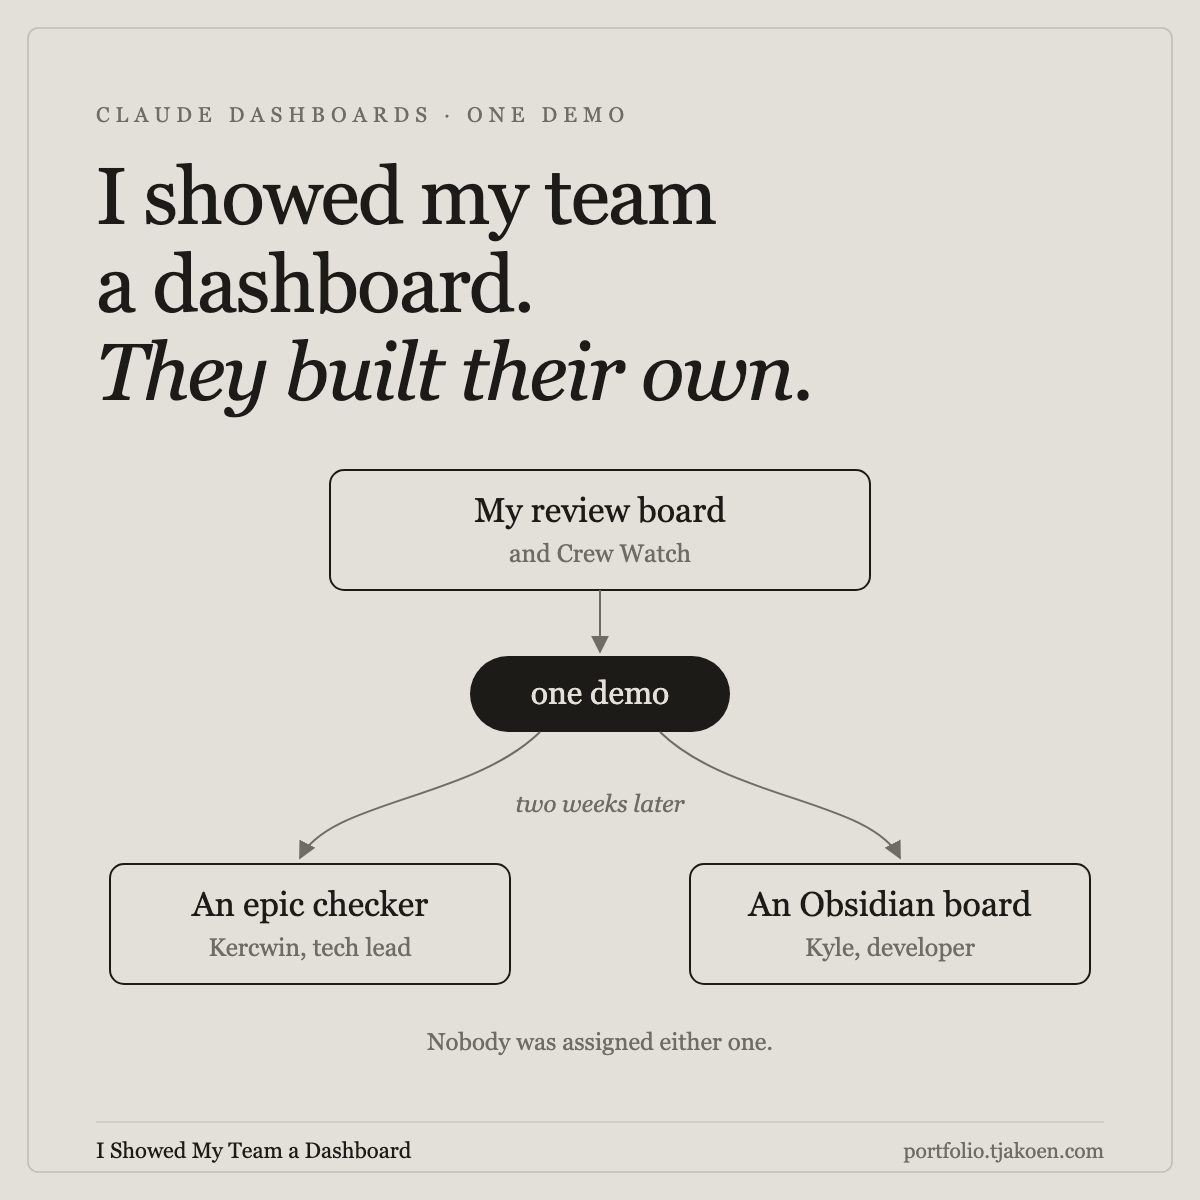
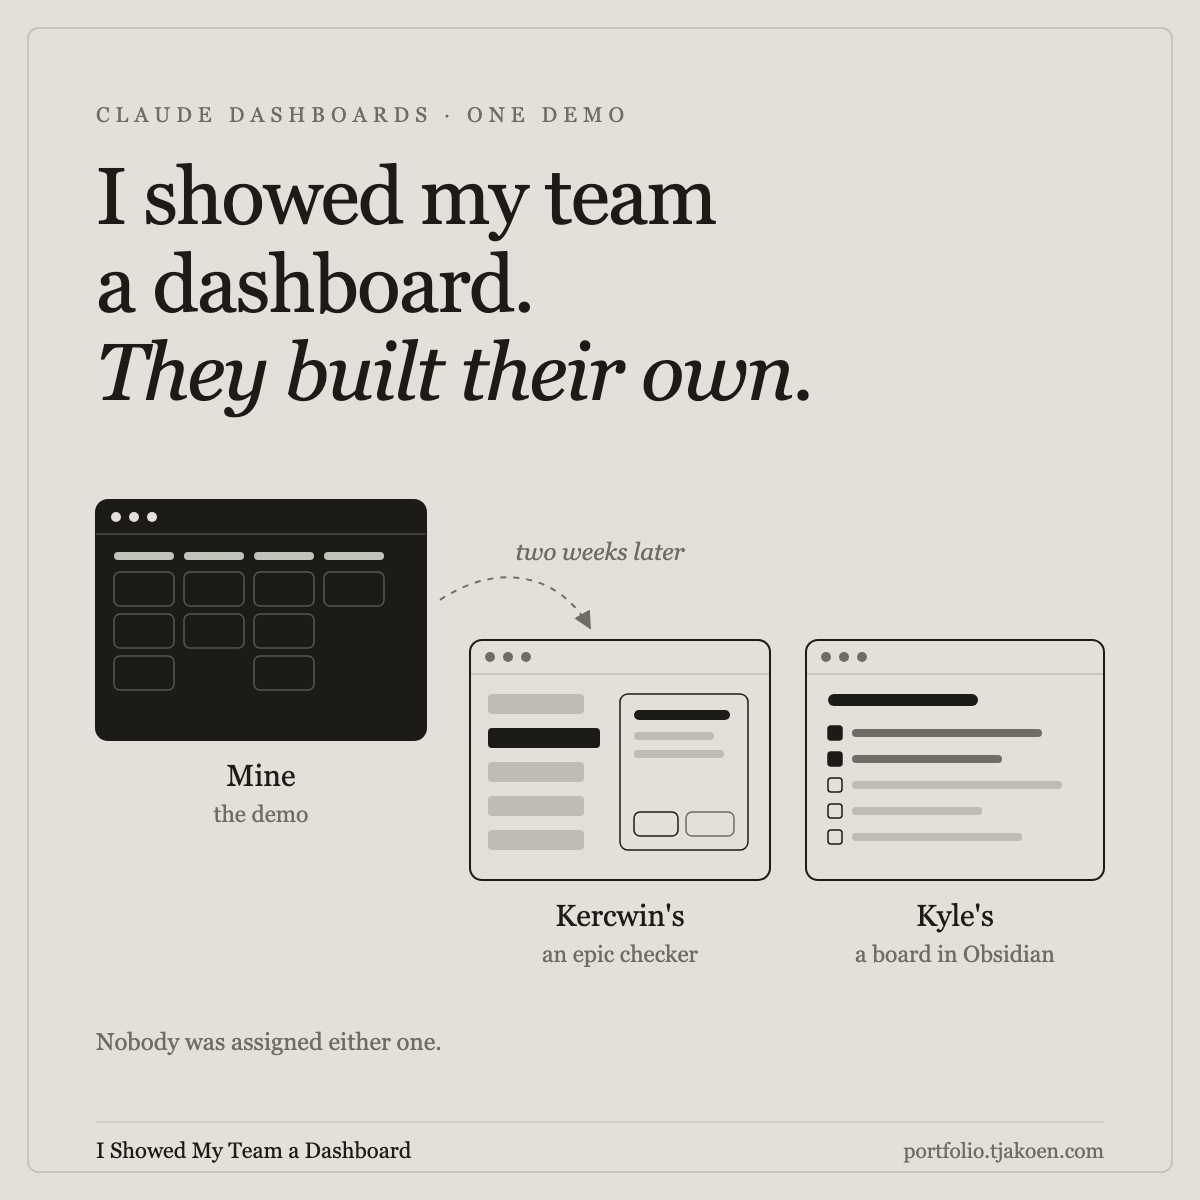
Redraw the dashboards social card as three small windows instead of a flow diagram

Changed region(s): [[0.0617, 0.4008, 0.925, 0.8017], [0.0925, 0.8633, 0.6475, 0.8942], [0.1542, 0.74, 0.37, 0.8017]]

diff --git a/tools/social-card-dashboards.ts b/tools/social-card-dashboards.ts
@@ -21,10 +21,61 @@ const INK = "#1C1B17";
 const MUTED = "#6E6C64";
 const LINE = "rgba(28,27,23,.18)";
 
-const box = (x: number, y: number, w: number, h: number, title: string, sub: string) => `
-    <rect x="${x}" y="${y}" width="${w}" height="${h}" rx="14" style="fill:${PAPER};stroke:${INK};stroke-width:2"/>
-    <text x="${x + w / 2}" y="${y + 52}" text-anchor="middle" style="fill:${INK};font-size:34px">${title}</text>
-    <text x="${x + w / 2}" y="${y + 92}" text-anchor="middle" style="fill:${MUTED};font-size:25px">${sub}</text>`;
+// One abstract dashboard window: a title bar with three dots, then a body drawn by the caller.
+const win = (x: number, y: number, w: number, h: number, dark: boolean, body: string) => {
+  const fill = dark ? INK : PAPER;
+  const stroke = INK;
+  const dot = dark ? PAPER : MUTED;
+  return `
+    <rect x="${x}" y="${y}" width="${w}" height="${h}" rx="12" style="fill:${fill};stroke:${stroke};stroke-width:2"/>
+    <line x1="${x}" y1="${y + 34}" x2="${x + w}" y2="${y + 34}" style="stroke:${dark ? "rgba(226,224,216,.25)" : LINE};stroke-width:1.5"/>
+    <circle cx="${x + 20}" cy="${y + 17}" r="5" style="fill:${dot}"/>
+    <circle cx="${x + 38}" cy="${y + 17}" r="5" style="fill:${dot}"/>
+    <circle cx="${x + 56}" cy="${y + 17}" r="5" style="fill:${dot}"/>
+    ${body}`;
+};
+
+// Mine: a board of columns with cards, in light ink on the dark window.
+const boardBody = (x: number, y: number) => {
+  const ink = "rgba(226,224,216,.85)";
+  const faint = "rgba(226,224,216,.3)";
+  let out = "";
+  const counts = [3, 2, 3, 1];
+  counts.forEach((n, c) => {
+    const cx = x + 18 + c * 70;
+    out += `<rect x="${cx}" y="${y + 52}" width="60" height="8" rx="4" style="fill:${ink}"/>`;
+    for (let i = 0; i < n; i++)
+      out += `<rect x="${cx}" y="${y + 72 + i * 42}" width="60" height="34" rx="6" style="fill:none;stroke:${faint};stroke-width:1.5"/>`;
+  });
+  return out;
+};
+
+// Kercwin's: a list on the left, one row open on the right with accept and reject.
+const epicBody = (x: number, y: number) => {
+  let out = "";
+  for (let i = 0; i < 5; i++)
+    out += `<rect x="${x + 18}" y="${y + 54 + i * 34}" width="${i === 1 ? 112 : 96}" height="20" rx="4" style="fill:${i === 1 ? INK : LINE}"/>`;
+  out += `<rect x="${x + 150}" y="${y + 54}" width="128" height="156" rx="8" style="fill:none;stroke:${INK};stroke-width:1.5"/>`;
+  out += `<rect x="${x + 164}" y="${y + 70}" width="96" height="10" rx="5" style="fill:${INK}"/>`;
+  out += `<rect x="${x + 164}" y="${y + 92}" width="80" height="8" rx="4" style="fill:${LINE}"/>`;
+  out += `<rect x="${x + 164}" y="${y + 110}" width="90" height="8" rx="4" style="fill:${LINE}"/>`;
+  out += `<rect x="${x + 164}" y="${y + 172}" width="44" height="24" rx="6" style="fill:none;stroke:${INK};stroke-width:1.5"/>`;
+  out += `<rect x="${x + 216}" y="${y + 172}" width="48" height="24" rx="6" style="fill:none;stroke:${MUTED};stroke-width:1.5"/>`;
+  return out;
+};
+
+// Kyle's: a note with checkboxes, some ticked.
+const notesBody = (x: number, y: number) => {
+  let out = `<rect x="${x + 22}" y="${y + 54}" width="150" height="12" rx="6" style="fill:${INK}"/>`;
+  const widths = [190, 150, 210, 130, 170];
+  widths.forEach((w, i) => {
+    const ry = y + 86 + i * 26;
+    const done = i < 2;
+    out += `<rect x="${x + 22}" y="${ry}" width="14" height="14" rx="3" style="fill:${done ? INK : "none"};stroke:${INK};stroke-width:1.5"/>`;
+    out += `<rect x="${x + 46}" y="${ry + 3}" width="${w}" height="8" rx="4" style="fill:${done ? MUTED : LINE}"/>`;
+  });
+  return out;
+};
 
 const card = `<!doctype html><html><head><meta charset="utf-8"><style>
   html, body { margin: 0; }
@@ -44,20 +95,22 @@ const card = `<!doctype html><html><head><meta charset="utf-8"><style>
     <text x="96" y="312" style="fill:${INK};font-size:80px;letter-spacing:-1.5px">a dashboard.</text>
     <text x="96" y="400" style="fill:${INK};font-size:80px;letter-spacing:-1.5px;font-style:italic">They built their own.</text>
 
-    ${box(330, 470, 540, 120, "My review board", "and Crew Watch")}
+    ${win(96, 500, 330, 240, true, boardBody(96, 500))}
+    <text x="261" y="786" text-anchor="middle" style="fill:${INK};font-size:30px">Mine</text>
+    <text x="261" y="822" text-anchor="middle" style="fill:${MUTED};font-size:23px">the demo</text>
 
-    <line x1="600" y1="590" x2="600" y2="652" style="stroke:${MUTED};stroke-width:2" marker-end="url(#arr)"/>
-    <rect x="470" y="656" width="260" height="76" rx="38" style="fill:${INK}"/>
-    <text x="600" y="704" text-anchor="middle" style="fill:${PAPER};font-size:32px">one demo</text>
+    <path d="M440,600 C500,560 560,575 590,628" style="fill:none;stroke:${MUTED};stroke-width:2;stroke-dasharray:6 7" marker-end="url(#arr)"/>
+    <text x="600" y="560" text-anchor="middle" style="fill:${MUTED};font-size:24px;font-style:italic">two weeks later</text>
 
-    <path d="M540,732 C470,800 330,800 300,858" style="fill:none;stroke:${MUTED};stroke-width:2" marker-end="url(#arr)"/>
-    <path d="M660,732 C730,800 870,800 900,858" style="fill:none;stroke:${MUTED};stroke-width:2" marker-end="url(#arr)"/>
-    <text x="600" y="812" text-anchor="middle" style="fill:${MUTED};font-size:24px;font-style:italic">two weeks later</text>
+    ${win(470, 640, 300, 240, false, epicBody(470, 640))}
+    <text x="620" y="926" text-anchor="middle" style="fill:${INK};font-size:30px">Kercwin's</text>
+    <text x="620" y="962" text-anchor="middle" style="fill:${MUTED};font-size:23px">an epic checker</text>
 
-    ${box(110, 864, 400, 120, "An epic checker", "Kercwin, tech lead")}
-    ${box(690, 864, 400, 120, "An Obsidian board", "Kyle, developer")}
+    ${win(806, 640, 298, 240, false, notesBody(806, 640))}
+    <text x="955" y="926" text-anchor="middle" style="fill:${INK};font-size:30px">Kyle's</text>
+    <text x="955" y="962" text-anchor="middle" style="fill:${MUTED};font-size:23px">a board in Obsidian</text>
 
-    <text x="600" y="1050" text-anchor="middle" style="fill:${MUTED};font-size:24px">Nobody was assigned either one.</text>
+    <text x="96" y="1050" style="fill:${MUTED};font-size:24px">Nobody was assigned either one.</text>
 
     <line x1="96" y1="1122" x2="${W - 96}" y2="1122" style="stroke:${LINE};stroke-width:1"/>
     <text x="96" y="1158" style="fill:${INK};font-size:22px">I Showed My Team a Dashboard</text>

diff --git a/content/notes/show-them-the-board.md b/content/notes/show-them-the-board.md
@@ -27,7 +27,7 @@ social: |
 
   If you lead people and you've built something, show them. The worst case is they nod.
 socialImage: "/media/notes/show-them-the-board-social.png"
-socialImageAlt: "I showed my team a dashboard and they built their own: my review board and Crew Watch lead to one demo, which two weeks later becomes Kercwin's epic checker and Kyle's Obsidian board."
+socialImageAlt: "I showed my team a dashboard and they built their own: my dark review board on the left, then two weeks later Kercwin's epic checker and Kyle's Obsidian board, drawn as three small windows."
 ---
 
 ## I was building the wrong thing, carefully
